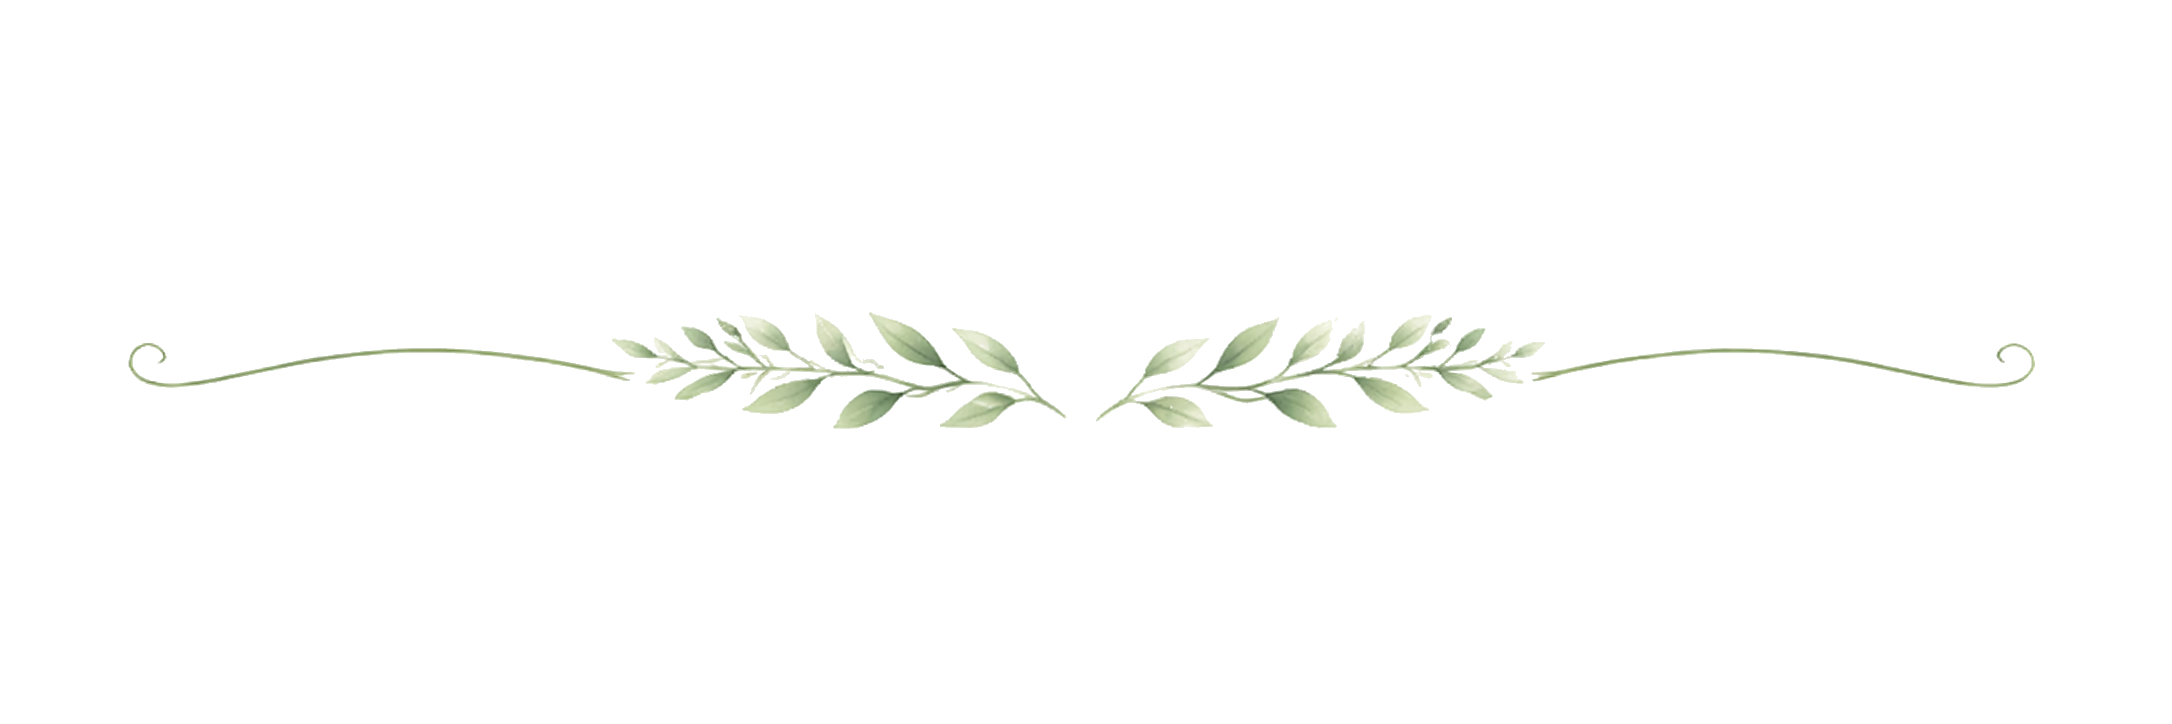
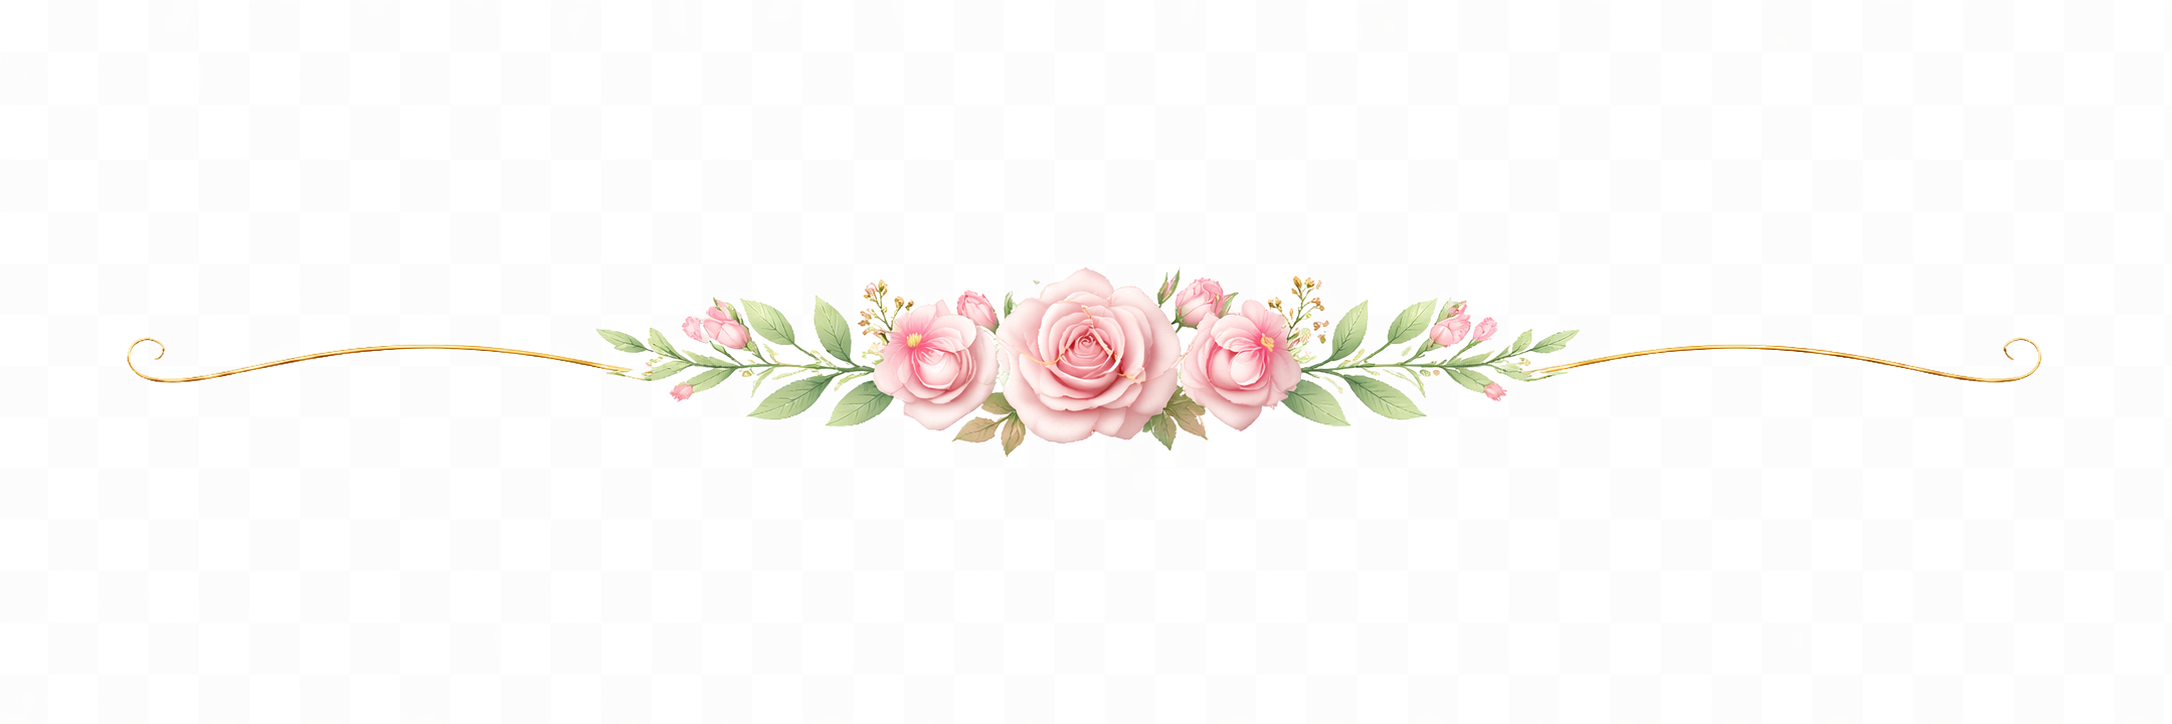
update

diff --git a/index.html b/index.html
@@ -47,6 +47,20 @@
 <!-- Pretendard: 변수형 한글 산세리프 (SIL OFL) -->
 <link rel="stylesheet" as="style" crossorigin href="https://cdn.jsdelivr.net/gh/orioncactus/pretendard@v1.3.9/dist/web/variable/pretendardvariable-dynamic-subset.min.css">
 
+<!-- Kakao JavaScript SDK — 메시지 템플릿으로 공유 -->
+<script src="https://t1.kakaocdn.net/kakao_js_sdk/2.7.2/kakao.min.js"
+        integrity="sha384-TiCUE00h649CAMonG018J2ujOgDKW/kVWlChEuu4jK2vxfAAD0eZxzCKakxg55G4"
+        crossorigin="anonymous"></script>
+<script>
+  // ⚠ 아래 두 값을 본인 카카오 개발자 콘솔 값으로 교체하세요
+  window.KAKAO_JS_KEY     = '5c44cf330f57eed662644315cf4d1f89';
+  window.KAKAO_TEMPLATE_ID = 1439121;
+
+  if (window.Kakao && !Kakao.isInitialized() && window.KAKAO_JS_KEY && !window.KAKAO_JS_KEY.startsWith('YOUR_')) {
+    try { Kakao.init(window.KAKAO_JS_KEY); } catch(e) { console.warn('[Kakao] init failed:', e); }
+  }
+</script>
+
 <style>
   *,*::before,*::after { box-sizing: border-box; margin: 0; padding: 0; }
   html { scroll-behavior: smooth; }
@@ -898,15 +912,19 @@
     border-top: 1px solid var(--line);
   }
   .acc-row1 {
-    display: flex; justify-content: space-between; align-items: baseline;
+    display: flex; justify-content: flex-start; align-items: baseline;
+    gap: 10px;
   }
   .acc-role {
+    order: 0;
     font-family: var(--font-sans-ko);
     font-size: 12.5px; font-weight: 500;
-    color: var(--ink-3); letter-spacing: .25em;
-    padding-left: .25em;
+    color: var(--ink-3); letter-spacing: .18em;
+    padding-left: .18em;
+    flex-shrink: 0;
   }
   .acc-name {
+    order: 1;
     font-family: var(--font-display-ko);
     font-size: 16px; color: var(--ink);
     font-weight: 700; letter-spacing: .1em;
@@ -918,14 +936,14 @@
   .acc-bank-num {
     /* 계좌번호는 또박또박 읽히도록 등폭(monospace) 계열 */
     font-family: 'Roboto Mono', 'Consolas', 'Menlo', 'Courier New', 'D2Coding', ui-monospace, monospace;
-    font-size: 16px; color: var(--ink);
-    letter-spacing: .04em; font-weight: 500;
+    font-size: 15px; color: var(--ink-2);
+    letter-spacing: .03em; font-weight: 400;
     font-variant-numeric: tabular-nums;
     font-feature-settings: "tnum";
   }
   .acc-bank-num b {
     font-family: var(--font-sans-ko);
-    color: var(--accent); font-weight: 600;
+    color: var(--accent); font-weight: 500;
     font-style: normal; margin-right: 10px;
     letter-spacing: .02em;
   }
@@ -2514,8 +2532,8 @@
         d.style.animationDelay = (Math.random() * 1.2) + 's';
         d.style.animationDuration = (2.8 + Math.random() * 1.4) + 's';
         d.innerHTML = petalSvg(
-          ['#ffd8e0','#f8b9c9','#ffcad4','#f9a8bd'][i % 4],
-          'rgba(180,90,115,.28)'
+          ['#c8e6a0','#a5d68d','#b8dc8f','#d4e5bc'][i % 4],
+          'rgba(90,130,55,.35)'
         );
         petals.appendChild(d);
       }
@@ -2566,11 +2584,15 @@
     }, { once: true });
   })();
 
-  // petalSvg 헬퍼를 인트로에서 재사용할 수 있도록 전역 선언 (아래 또 쓰임)
+  // leafSvg (구 petalSvg) — 연두색 나뭇잎 모양. 뾰족한 타원 + 중앙 잎맥
   function petalSvg(fill, stroke) {
-    return '<svg viewBox="0 0 40 52" xmlns="http://www.w3.org/2000/svg">' +
-      '<path d="M20 2 C 33 10, 38 28, 20 50 C 2 28, 7 10, 20 2 Z" fill="' + fill + '"/>' +
-      '<path d="M20 4 C 24 18, 22 34, 20 46" stroke="' + stroke + '" stroke-width="0.9" fill="none" stroke-linecap="round"/>' +
+    return '<svg viewBox="0 0 40 56" xmlns="http://www.w3.org/2000/svg">' +
+      '<path d="M20 2 C 36 14, 36 44, 20 54 C 4 44, 4 14, 20 2 Z" fill="' + fill + '"/>' +
+      '<path d="M20 4 C 21 18, 22 38, 20 52" stroke="' + stroke + '" stroke-width="0.9" fill="none" stroke-linecap="round"/>' +
+      '<path d="M20 16 C 24 17, 27 18, 30 20" stroke="' + stroke + '" stroke-width="0.6" fill="none" opacity=".6"/>' +
+      '<path d="M20 16 C 16 17, 13 18, 10 20" stroke="' + stroke + '" stroke-width="0.6" fill="none" opacity=".6"/>' +
+      '<path d="M20 30 C 24 31, 27 32, 30 34" stroke="' + stroke + '" stroke-width="0.6" fill="none" opacity=".6"/>' +
+      '<path d="M20 30 C 16 31, 13 32, 10 34" stroke="' + stroke + '" stroke-width="0.6" fill="none" opacity=".6"/>' +
     '</svg>';
   }
 
@@ -2845,6 +2867,19 @@
 
   /* === 공유 === */
   document.getElementById('btnShare').addEventListener('click', () => {
+    // 1순위: 카카오 메시지 템플릿 (설정된 경우)
+    if (window.Kakao && Kakao.isInitialized && Kakao.isInitialized()
+        && Kakao.Share && window.KAKAO_TEMPLATE_ID) {
+      try {
+        Kakao.Share.sendCustom({
+          templateId: window.KAKAO_TEMPLATE_ID,
+          // 템플릿에 변수가 있으면 여기에서 전달:
+          // templateArgs: { name: '류형수 ♥ 김규비', date: '2026년 7월 11일' }
+        });
+        return;
+      } catch (e) { console.warn('[Kakao Share] failed:', e); }
+    }
+    // 2순위: 브라우저 기본 공유 시트 (iOS Safari, Android Chrome 등)
     if (navigator.share) {
       navigator.share({
         title: '류형수 ♥ 김규비 결혼합니다',
@@ -3155,18 +3190,18 @@
   /* ===================== 그래픽 · 인터랙션 ===================== */
   const reducedMotion = window.matchMedia('(prefers-reduced-motion: reduce)').matches;
 
-  // --- 떠다니는 꽃잎 (인라인 SVG — petalSvg는 상단에서 전역 선언됨) ---
+  // --- 떠다니는 나뭇잎 (인라인 SVG — 연두색) ---
   (function spawnFloatingPetals() {
     const container = document.getElementById('bgDecor');
     if (!container || reducedMotion) return;
     const count = Math.min(20, Math.max(12, Math.floor(window.innerWidth / 38)));
     const palette = [
-      { fill: '#ffd8e0', vein: 'rgba(190,100,125,0.28)' },
-      { fill: '#f8b9c9', vein: 'rgba(180,85,115,0.28)' },
-      { fill: '#ffe4ea', vein: 'rgba(200,110,130,0.25)' },
-      { fill: '#f9a8bd', vein: 'rgba(170,75,105,0.30)' },
-      { fill: '#ffcad4', vein: 'rgba(195,105,130,0.28)' },
-      { fill: '#fff0f3', vein: 'rgba(200,120,140,0.22)' },
+      { fill: '#c8e6a0', vein: 'rgba(100,140,60,0.35)' },
+      { fill: '#a5d68d', vein: 'rgba(80,125,50,0.35)' },
+      { fill: '#d4e5bc', vein: 'rgba(120,150,80,0.30)' },
+      { fill: '#b8dc8f', vein: 'rgba(90,130,55,0.35)' },
+      { fill: '#8fc673', vein: 'rgba(70,115,45,0.35)' },
+      { fill: '#e0ecc8', vein: 'rgba(130,155,90,0.28)' },
     ];
     for (let i = 0; i < count; i++) {
       const wrap = document.createElement('div');
@@ -3299,15 +3334,15 @@
     window.addEventListener('scroll', onScroll, { passive: true });
   })();
 
-  // --- 커서/탭 꽃잎 이펙트 (데스크톱: mousemove, 모바일: touch/click 시 번져나옴) ---
+  // --- 커서/탭 나뭇잎 이펙트 (데스크톱: mousemove, 모바일: touch/click 시 번져나옴) — 연두색 ---
   (function initCursorPetals() {
     if (reducedMotion) return;
     const hasFinePointer = window.matchMedia('(hover: hover) and (pointer: fine)').matches;
     const cpPalette = [
-      { fill: '#ffd8e0', vein: 'rgba(190,100,125,0.3)' },
-      { fill: '#f9a8bd', vein: 'rgba(170,75,105,0.3)' },
-      { fill: '#ffcad4', vein: 'rgba(195,105,130,0.3)' },
-      { fill: '#fff0f3', vein: 'rgba(200,120,140,0.22)' },
+      { fill: '#c8e6a0', vein: 'rgba(100,140,60,0.35)' },
+      { fill: '#a5d68d', vein: 'rgba(80,125,50,0.35)' },
+      { fill: '#b8dc8f', vein: 'rgba(90,130,55,0.35)' },
+      { fill: '#d4e5bc', vein: 'rgba(120,150,80,0.30)' },
     ];
     function spawnPetal(x, y, extra) {
       const p = document.createElement('div');
